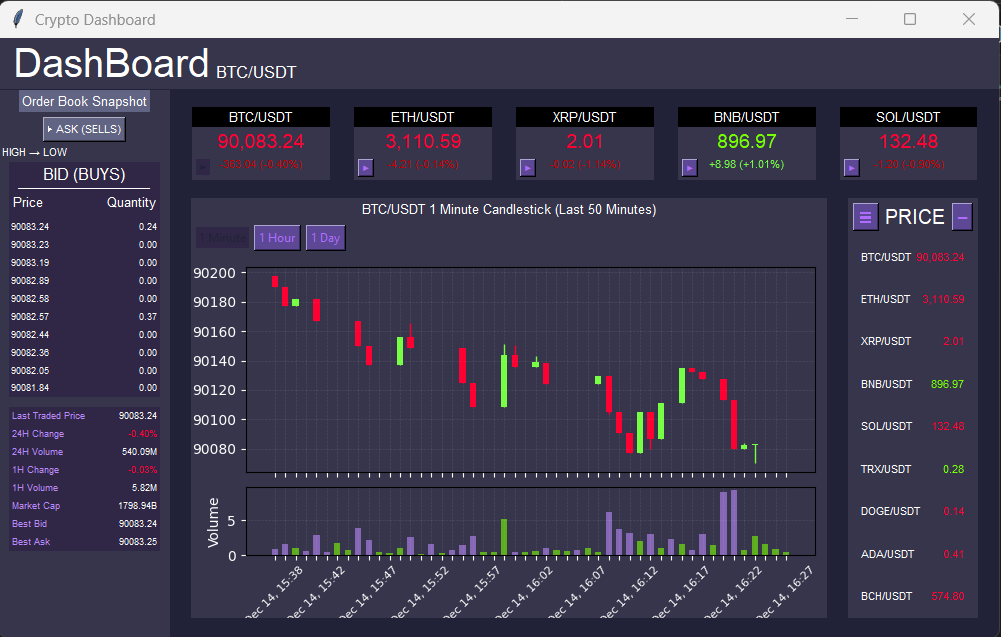
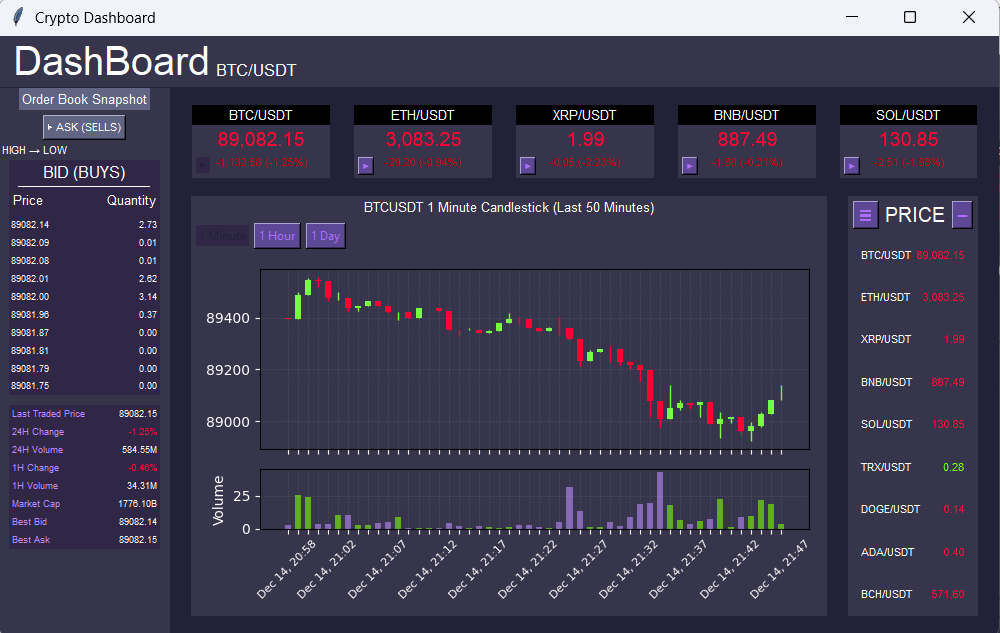
bug fixing

diff --git a/components/stat_table.py b/components/stat_table.py
@@ -80,6 +80,7 @@ class Statistics:
         self.kline1h = f"{self.symbol}@kline_1h"
         self.best_bid_ask_ws = f"{self.symbol}@bookTicker"
         self.multi_url = f"wss://stream.binance.com:9443/stream?streams={self.last_trade_ws}/{self.current_ticker_ws}/{self.kline1h}/{self.best_bid_ask_ws}"
+        self.api.ws_url = self.multi_url
 
         self.is_active = True
         self.start()
